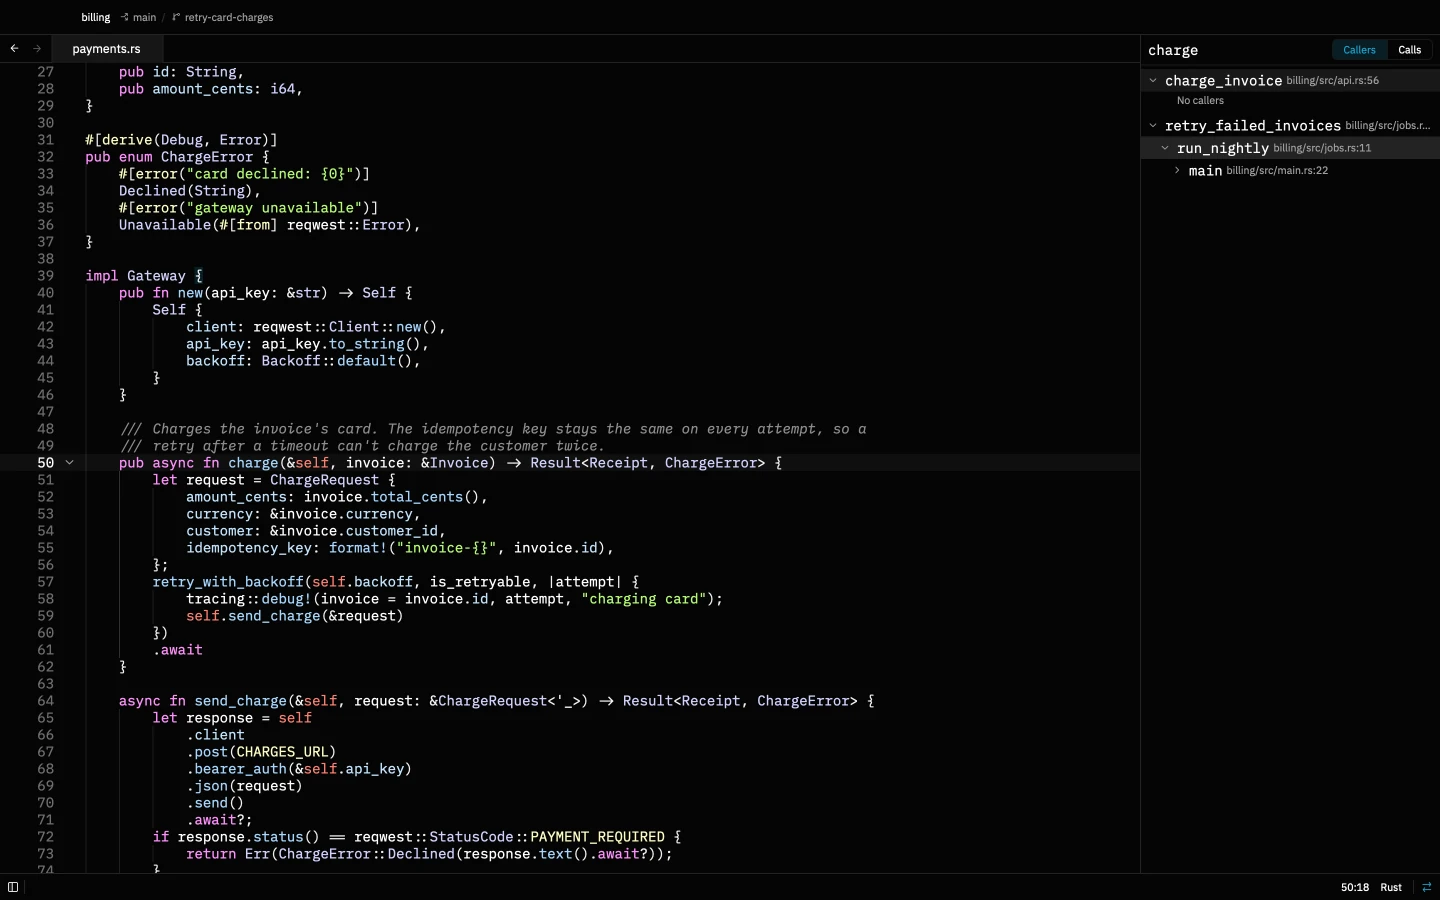
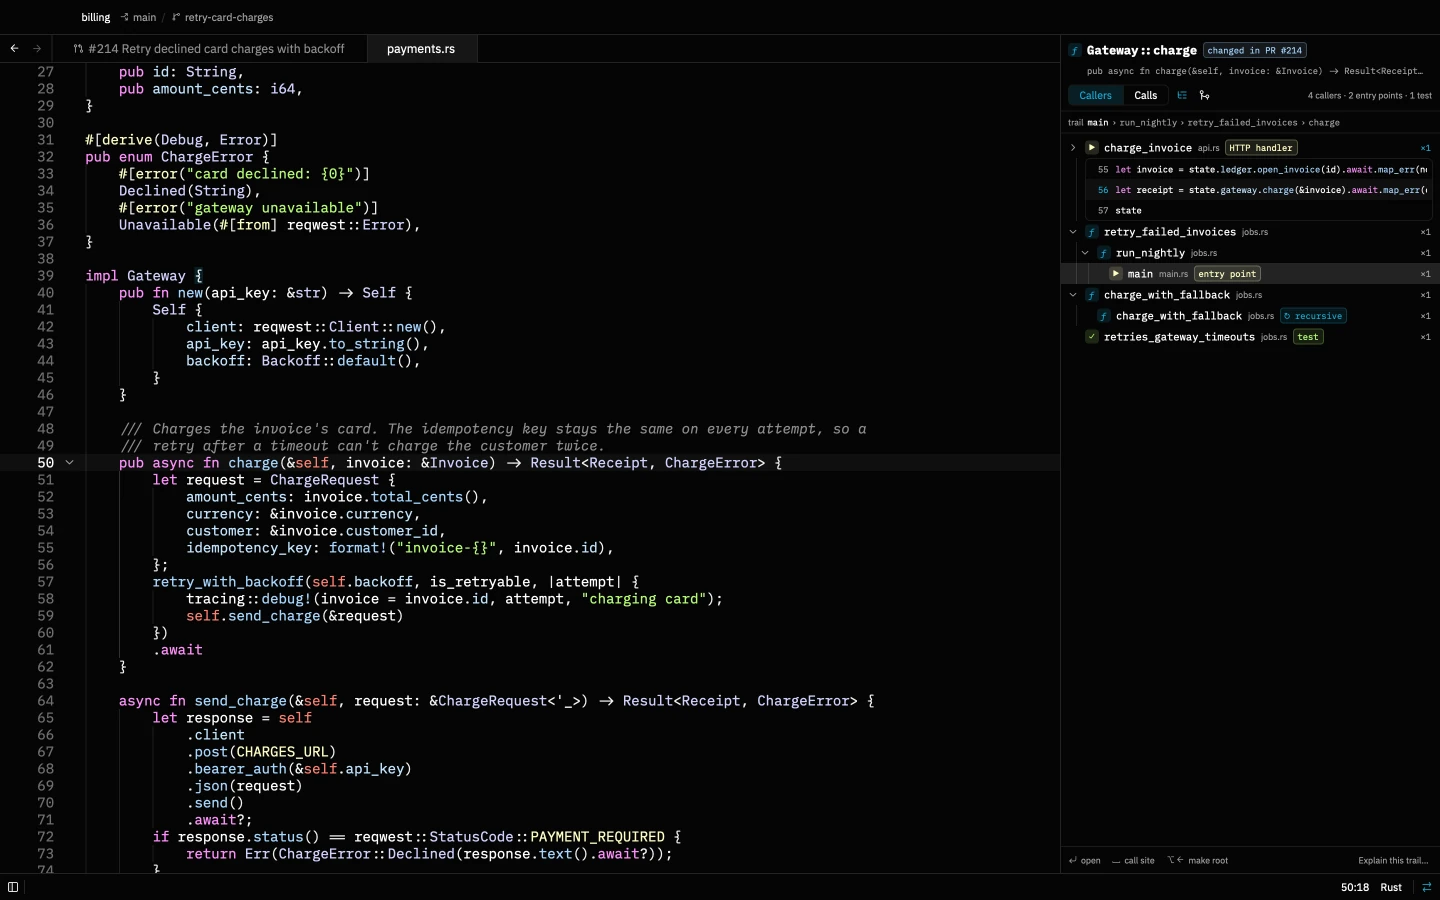
Screenshots: Call Trails redesign and map close-up

diff --git a/crates/zed/src/photon_screenshots.rs b/crates/zed/src/photon_screenshots.rs
@@ -1754,23 +1754,86 @@ mod mac {
 
         fn call_hierarchy(&mut self) -> Result<()> {
             self.call_hierarchy_at(false)?;
-            self.call_hierarchy_at(true)
+            self.call_hierarchy_at(true)?;
+            self.call_map()
         }
 
-        fn call_hierarchy_at(&mut self, close_up: bool) -> Result<()> {
-            let win = self.scene_window(close_up)?;
+        /// Call Trails on `charge`, with the pull request that changes it open in a tab, so the
+        /// header flags it. Opens charge_invoice's call site, the recursive fallback, and the
+        /// nightly job's trail down to `main`, which ends selected.
+        fn open_call_trails(&mut self, close_up: bool) -> Result<Win> {
+            let (width, height) = if close_up {
+                (CLOSE_UP_WIDTH, CLOSE_UP_HEIGHT)
+            } else {
+                (WINDOW_WIDTH, WINDOW_HEIGHT)
+            };
+            let (win, _) = self.open_review_sized(&Self::all_unviewed(), width, height)?;
+            self.cx.update(|cx| {
+                photon_call_trails::set_hooks(
+                    photon_call_trails::CallTrailHooks {
+                        changed_in_review: Some(Rc::new(photon_review::pr_changing_rows)),
+                        explain: Some(Rc::new(|_, _, _, _| {})),
+                    },
+                    cx,
+                )
+            });
             self.add_panel(&win, photon_call_trails::CallHierarchyPanel::load)?;
             let editor = self.open_file(&win, "src/payments.rs")?;
             self.place_cursor(&win, &editor, "charge(&self")?;
             self.dispatch(&win, photon_call_trails::ShowInPanel);
-            // Expands each caller in turn: the first under the root, then its own first caller.
-            for action in ["next", "child", "next", "child", "next", "next", "child"] {
-                match action {
-                    "next" => self.dispatch(&win, menu::SelectNext),
-                    _ => self.dispatch(&win, menu::SelectChild),
-                }
+            // Rows: charge_invoice, retry_failed_invoices, charge_with_fallback, the test.
+            self.dispatch(&win, menu::SelectNext);
+            self.dispatch(&win, photon_call_trails::ToggleCallSite);
+            self.dispatch(&win, menu::SelectNext);
+            self.dispatch(&win, menu::SelectNext);
+            self.dispatch(&win, menu::SelectChild);
+            self.dispatch(&win, menu::SelectPrevious);
+            for _ in 0..4 {
+                self.dispatch(&win, menu::SelectChild);
             }
+            Ok(win)
+        }
+
+        fn call_hierarchy_at(&mut self, close_up: bool) -> Result<()> {
+            let win = self.open_call_trails(close_up)?;
             let result = self.shoot_scene(&win, close_up, "call-hierarchy", "cu-call-tree");
+            self.close(win);
+            result
+        }
+
+        /// The same trail as a map, in a panel widened the way a user would for it, cropped to
+        /// the panel's header and map.
+        fn call_map(&mut self) -> Result<()> {
+            const PANEL_WIDTH: f32 = 1100.;
+            let win = self.open_call_trails(false)?;
+            self.click(&win, "call-trail-view-map")?;
+            self.update(&win, |workspace, _, cx| {
+                if let Some(panel) = workspace.panel::<photon_call_trails::CallHierarchyPanel>(cx) {
+                    workspace.right_dock().update(cx, |dock, cx| {
+                        dock.set_panel_size_state(
+                            &panel,
+                            workspace::dock::PanelSizeState {
+                                size: Some(gpui::px(PANEL_WIDTH)),
+                                flex: None,
+                            },
+                            cx,
+                        );
+                    });
+                }
+            })?;
+            let result = self.shoot_crops(
+                &win,
+                None,
+                &[(
+                    "cu-call-map",
+                    &[Area::Exact(
+                        WINDOW_WIDTH - PANEL_WIDTH,
+                        36.,
+                        PANEL_WIDTH,
+                        340.,
+                    )],
+                )],
+            );
             self.close(win);
             result
         }

diff --git a/crates/zed/src/photon_screenshots/fixture.rs b/crates/zed/src/photon_screenshots/fixture.rs
@@ -221,7 +221,11 @@ pub const JOBS_RS: &str = r#"use std::{sync::Arc, time::Duration};
 
 use tracing::{info, warn};
 
-use crate::{ledger::Ledger, payments::Gateway};
+use crate::{
+    invoice::Invoice,
+    ledger::Ledger,
+    payments::{ChargeError, Gateway, Receipt},
+};
 
 pub async fn run_nightly(ledger: Ledger, gateway: Arc<Gateway>) {
     let mut interval = tokio::time::interval(Duration::from_secs(24 * 60 * 60));
@@ -246,6 +250,33 @@ async fn retry_failed_invoices(ledger: &Ledger, gateway: &Gateway) {
             }
             Err(error) => warn!(invoice = invoice.id, %error, "charge failed again"),
         }
+    }
+}
+
+/// Tries the backup gateway, then the primary again, while the gateways are down.
+pub async fn charge_with_fallback(
+    primary: &Gateway,
+    backup: &Gateway,
+    invoice: &Invoice,
+    attempts: u32,
+) -> Result<Receipt, ChargeError> {
+    match primary.charge(invoice).await {
+        Err(ChargeError::Unavailable(_)) if attempts > 1 => {
+            Box::pin(charge_with_fallback(backup, primary, invoice, attempts - 1)).await
+        }
+        result => result,
+    }
+}
+
+#[cfg(test)]
+mod tests {
+    use super::*;
+
+    #[tokio::test]
+    async fn retries_gateway_timeouts() {
+        let gateway = Gateway::new("sk_test_timeouts");
+        let invoice = Invoice::for_test(4_200);
+        assert!(gateway.charge(&invoice).await.is_err());
     }
 }
 "#;
@@ -789,6 +820,8 @@ pub const FUNCTIONS: &[(&str, &str)] = &[
     ("run_nightly", "src/jobs.rs"),
     ("retry_failed_invoices", "src/jobs.rs"),
     ("main", "src/main.rs"),
+    ("charge_with_fallback", "src/jobs.rs"),
+    ("retries_gateway_timeouts", "src/jobs.rs"),
 ];
 
 pub const CALLS: &[(&str, &str)] = &[
@@ -806,6 +839,9 @@ pub const CALLS: &[(&str, &str)] = &[
     ("charge", "send_charge"),
     ("charge", "is_retryable"),
     ("retry_with_backoff", "delay"),
+    ("charge_with_fallback", "charge"),
+    ("charge_with_fallback", "charge_with_fallback"),
+    ("retries_gateway_timeouts", "charge"),
 ];
 
 /// An untracked file in the `git status` close-up.
